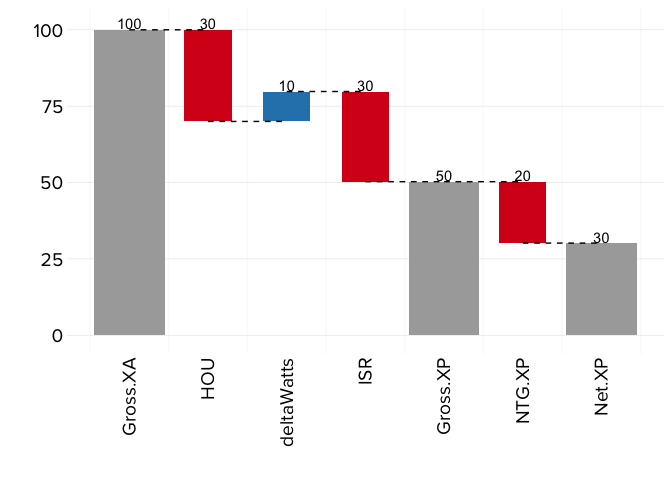
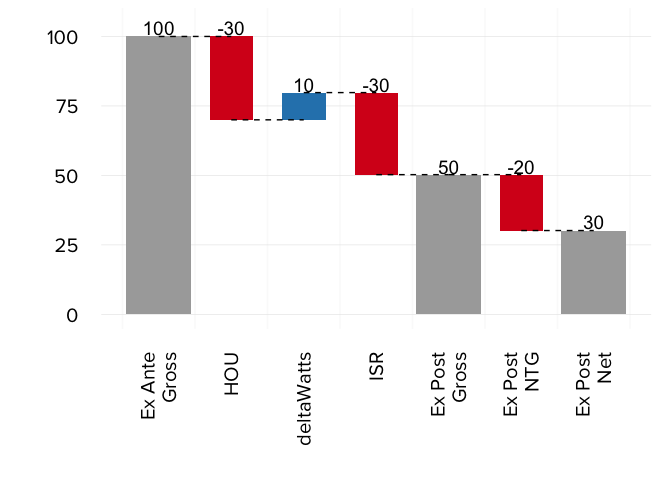
Update readme
Update Readme to match vignette

diff --git a/README.md b/README.md
@@ -48,14 +48,14 @@ lighting_given <- waterfallPrep(myparamdf,
                           altparamnames = NULL,
                                 output="none") # none means no permutation
 lighting_given
-#>     variable  given    total    base increase decrease
-#> 1   Gross.XA 100.00 100.0000      NA       NA       NA
-#> 2        HOU   0.70       NA 70.0000      0.0  30.0000
-#> 3 deltaWatts   1.14       NA 70.0000      9.8   0.0000
-#> 4        ISR   0.63       NA 50.2740      0.0  29.5260
-#> 5   Gross.XP     NA  50.2740      NA       NA       NA
-#> 6     NTG.XP   0.60       NA 30.1644      0.0  20.1096
-#> 7     Net.XP     NA  30.1644      NA       NA       NA
+#>        variable  given    total    base increase decrease
+#> 1 Ex Ante Gross 100.00 100.0000      NA       NA       NA
+#> 2           HOU   0.70       NA 70.0000      0.0  30.0000
+#> 3    deltaWatts   1.14       NA 70.0000      9.8   0.0000
+#> 4           ISR   0.63       NA 50.2740      0.0  29.5260
+#> 5 Ex Post Gross     NA  50.2740      NA       NA       NA
+#> 6   Ex Post NTG   0.60       NA 30.1644      0.0  20.1096
+#> 7   Ex Post Net     NA  30.1644      NA       NA       NA
 ```
 
 ``` r
@@ -80,14 +80,14 @@ lighting_given <- waterfallPrep(myparamdf,
                           altparamnames = NULL,
                                 output="none") # none means no permutation
 lighting_given
-#>     variable  given    total     base increase decrease
-#> 1   Gross.XA 100.00 100.0000       NA       NA       NA
-#> 2 deltaWatts   1.14       NA 100.0000       14   0.0000
-#> 3        ISR   0.63       NA  71.8200        0  42.1800
-#> 4        HOU   0.70       NA  50.2740        0  21.5460
-#> 5   Gross.XP     NA  50.2740       NA       NA       NA
-#> 6     NTG.XP   0.60       NA  30.1644        0  20.1096
-#> 7     Net.XP     NA  30.1644       NA       NA       NA
+#>        variable  given    total     base increase decrease
+#> 1 Ex Ante Gross 100.00 100.0000       NA       NA       NA
+#> 2    deltaWatts   1.14       NA 100.0000       14   0.0000
+#> 3           ISR   0.63       NA  71.8200        0  42.1800
+#> 4           HOU   0.70       NA  50.2740        0  21.5460
+#> 5 Ex Post Gross     NA  50.2740       NA       NA       NA
+#> 6   Ex Post NTG   0.60       NA  30.1644        0  20.1096
+#> 7   Ex Post Net     NA  30.1644       NA       NA       NA
 ```
 
 ``` r
